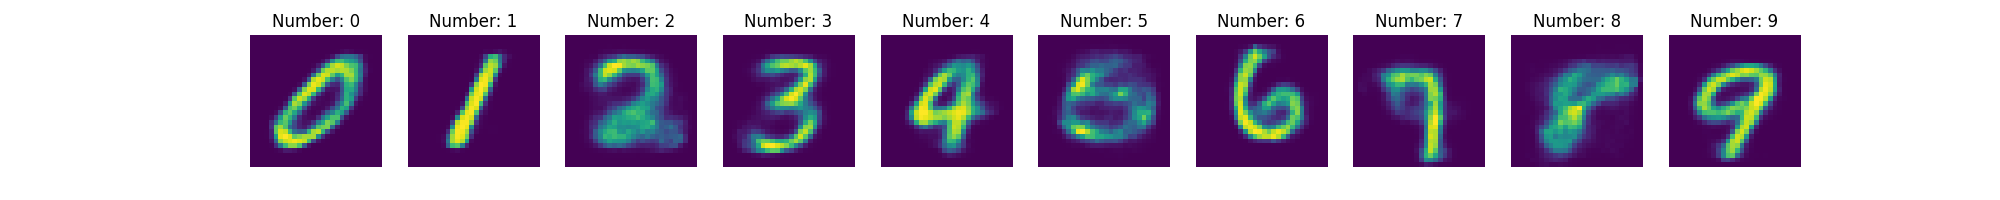
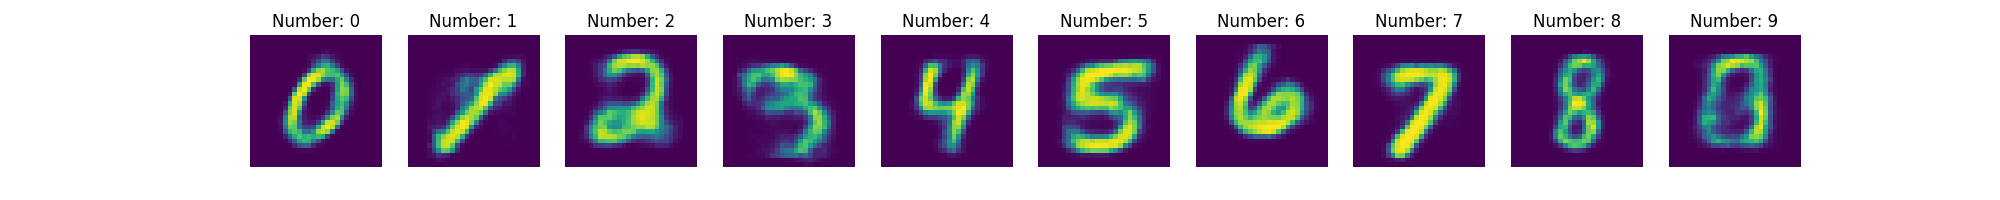
c

Changed region(s): [[0.527, 0.21, 0.899, 0.81], [0.217, 0.24, 0.496, 0.81], [0.124, 0.27, 0.186, 0.75]]

diff --git a/vae.py b/vae.py
@@ -16,8 +16,10 @@ class Encoder(nn.Module):
 
         self.layers = nn.Sequential(
             nn.Linear(n_input, n_hidden),
+            nn.LayerNorm(n_hidden),
             nn.ReLU(),
             nn.Linear(n_hidden, n_hidden),
+            nn.LayerNorm(n_hidden),
             nn.ReLU(),
             nn.Linear(n_hidden, n_hidden),
         )
@@ -42,10 +44,13 @@ class Decoder(nn.Module):
 
         self.layers = nn.Sequential(
             nn.Linear(latent_dims, n_hidden),
+            nn.LayerNorm(n_hidden),
             nn.ReLU(),
             nn.Linear(n_hidden, n_hidden),
+            nn.LayerNorm(n_hidden),
             nn.ReLU(),
             nn.Linear(n_hidden, n_hidden),
+            nn.LayerNorm(n_hidden),
             nn.ReLU(),
             nn.Linear(n_hidden, n_output),
             nn.Sigmoid(),
@@ -104,12 +109,14 @@ def plot_batch_and_save_image(x_hat, epoch):
 
 if __name__ == "__main__":
 
+    BATCH_SIZE = 64
+
     def get_data():
         train_ds = MNIST(
             root="data", train=True, download=True, transform=transforms.ToTensor()
         )
 
-        train_dl = DataLoader(train_ds, batch_size=32, shuffle=True)
+        train_dl = DataLoader(train_ds, batch_size=BATCH_SIZE, shuffle=True)
 
         return train_dl
 
@@ -117,11 +124,12 @@ if __name__ == "__main__":
     print(DEVICE)
     data_loader = get_data()
     model = ConditionalVAE().to(DEVICE)
-    optimizer = torch.optim.Adam(model.parameters(), lr=0.0007)
+    optimizer = torch.optim.Adam(model.parameters(), lr=0.001)
 
     EPOCHS = 50
 
     for epoch in range(EPOCHS):
+        epoch_losses = []
 
         with tqdm(data_loader) as data_loader:
             for batch in data_loader:
@@ -133,6 +141,7 @@ if __name__ == "__main__":
                 x_hat, mu, log_var = model(x, c)
 
                 loss = model.loss_function(x, x_hat, mu, log_var)
+                epoch_losses.append(loss.item())
 
                 optimizer.zero_grad()
                 loss.backward()
@@ -146,7 +155,7 @@ if __name__ == "__main__":
             x_hat = inference(model, random_nums)
             plot_batch_and_save_image(x_hat, epoch)
 
-        print(f"Epoch {epoch} Loss: {loss}")
+        print(f"Epoch {epoch} Loss: {np.mean(epoch_losses) / BATCH_SIZE}")
 
     model.to("cpu")
     torch.save(model.state_dict(), "model.pth")

diff --git a/collab.py b/collab.py
@@ -1,0 +1,17 @@
+from torch.utils.data import DataLoader
+
+import torch
+from torch import nn
+
+from tqdm import tqdm
+import matplotlib.pyplot as plt
+import numpy as np
+
+from fastai.data.all import untar_data
+
+# Load the dataset into a Pandas DataFrame
+url = 'https://files.grouplens.org/datasets/movielens/ml-latest-small.zip'
+path = untar_data(url)
+
+print(path)
+
